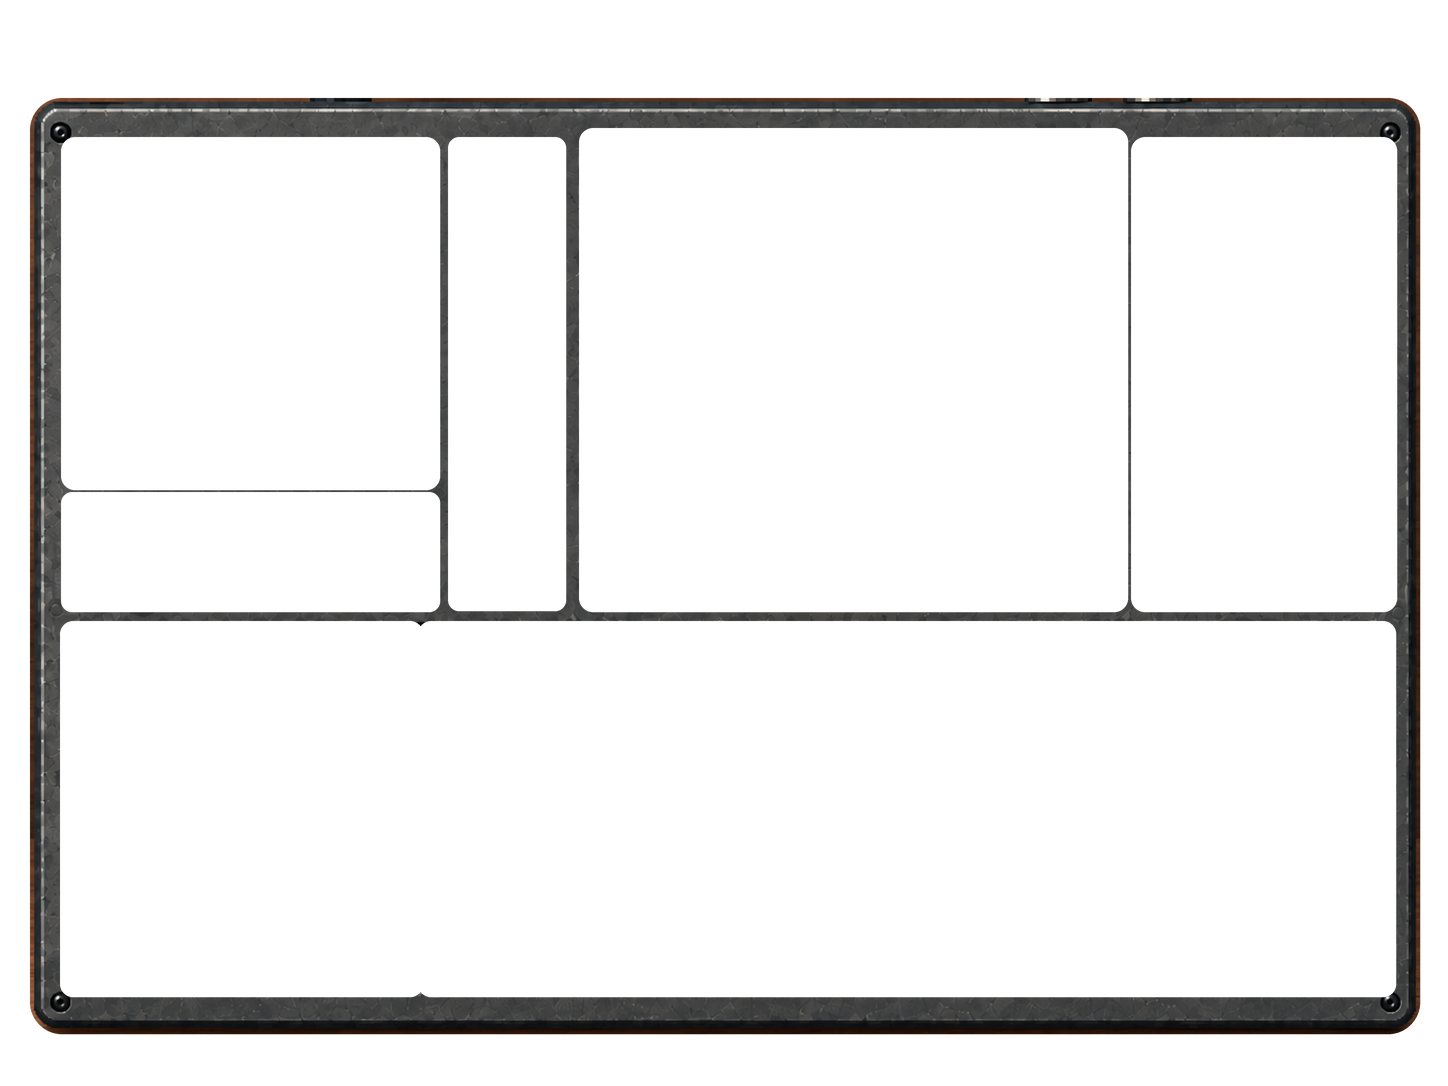
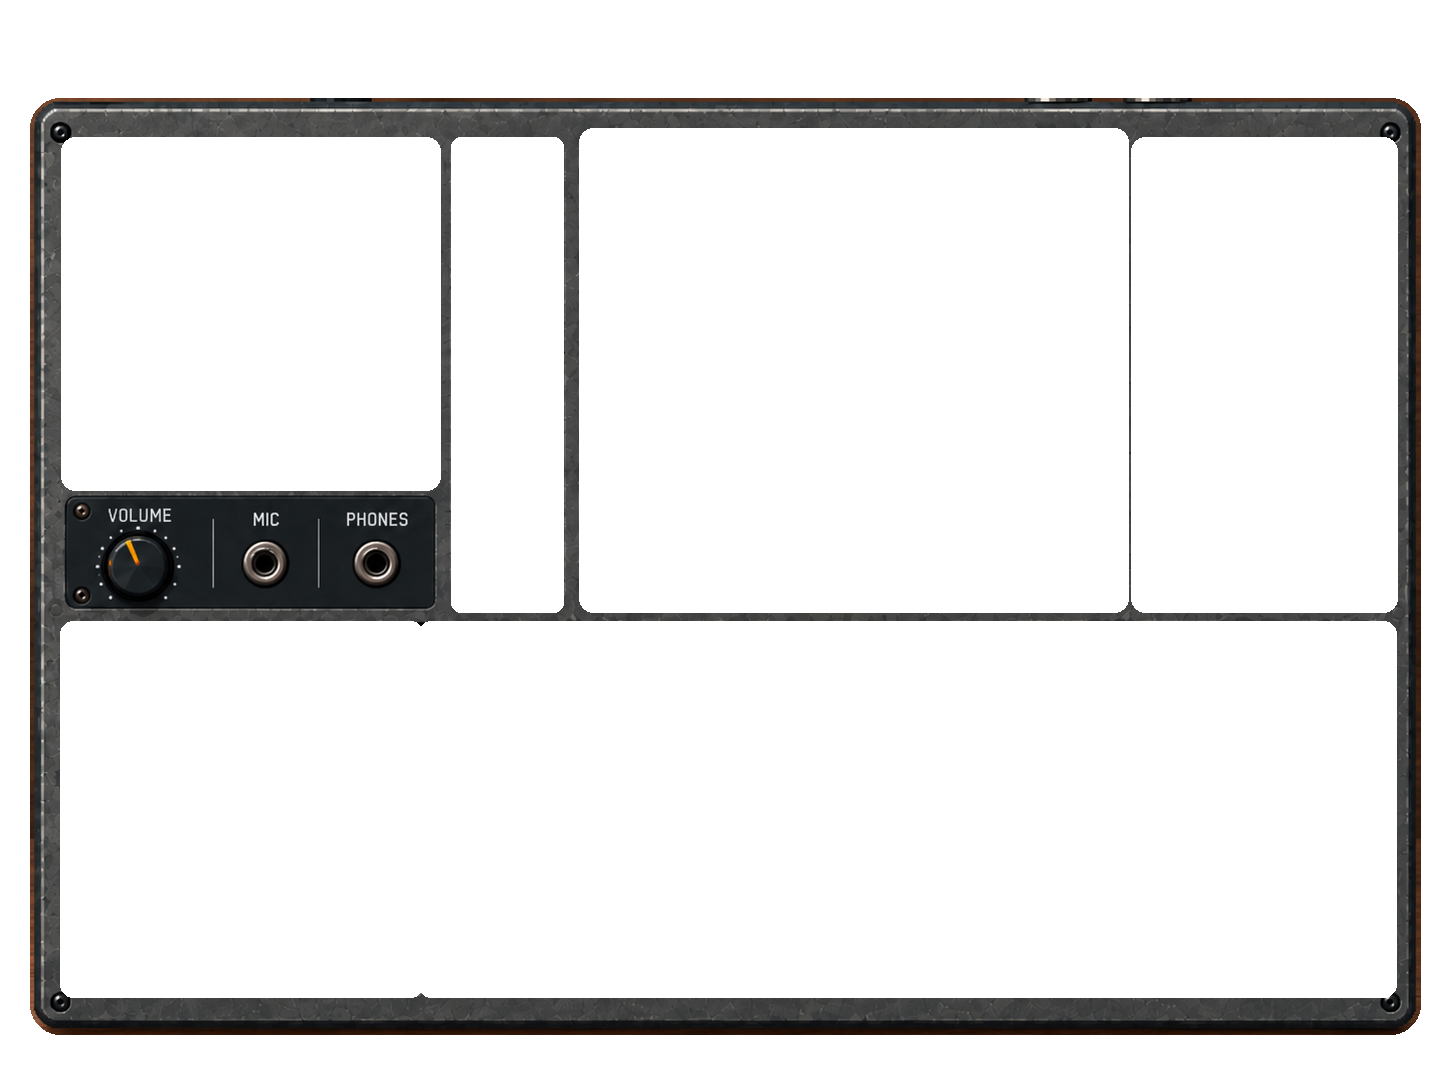
fix(ui): separate pitch and cassette layers

Changed region(s): [[0.0311, 0.4254, 0.3108, 0.5773]]

diff --git a/css/looper.css b/css/looper.css
@@ -75,7 +75,7 @@
 /* PITCH — keep the real ±8 range and mask the baked mockup numbers. */
 #looper .deckPitchModule{
   z-index:22;top:12.62%;left:30.94%;width:8.15%;height:43.74%;overflow:visible;border:0!important;
-  border-radius:.75cqw;background:#353738 url("../assets/looper-ui/120927/pitch-panel.webp") center/contain no-repeat!important;box-shadow:none!important;pointer-events:none;
+  background:url("../assets/looper-ui/120927/pitch-panel.webp") center/contain no-repeat!important;box-shadow:none!important;pointer-events:none;
 }
 #looper .deckPitchHeader{position:absolute;inset:0;pointer-events:none}
 #looper .deckPitchHeader label{display:none!important}

diff --git a/tests/cassette_states.py b/tests/cassette_states.py
@@ -37,7 +37,7 @@ with contextlib.ExitStack() as stack:
 
             mechanism=page.locator('.cassetteMechanism')
             box=mechanism.bounding_box()
-            assert abs(box['width']/box['height']-1.5)<.001,(label,box)
+            assert abs(box['width']/box['height']-442/252)<.001,(label,box)
             assert page.evaluate('document.body.scrollWidth <= innerWidth+2')
             assert page.locator('.cassetteBayForeground').is_visible()
             for selector in ('.cassetteTape','.cassetteReelLeft','.cassetteReelRight','.cassetteBeatName'):
